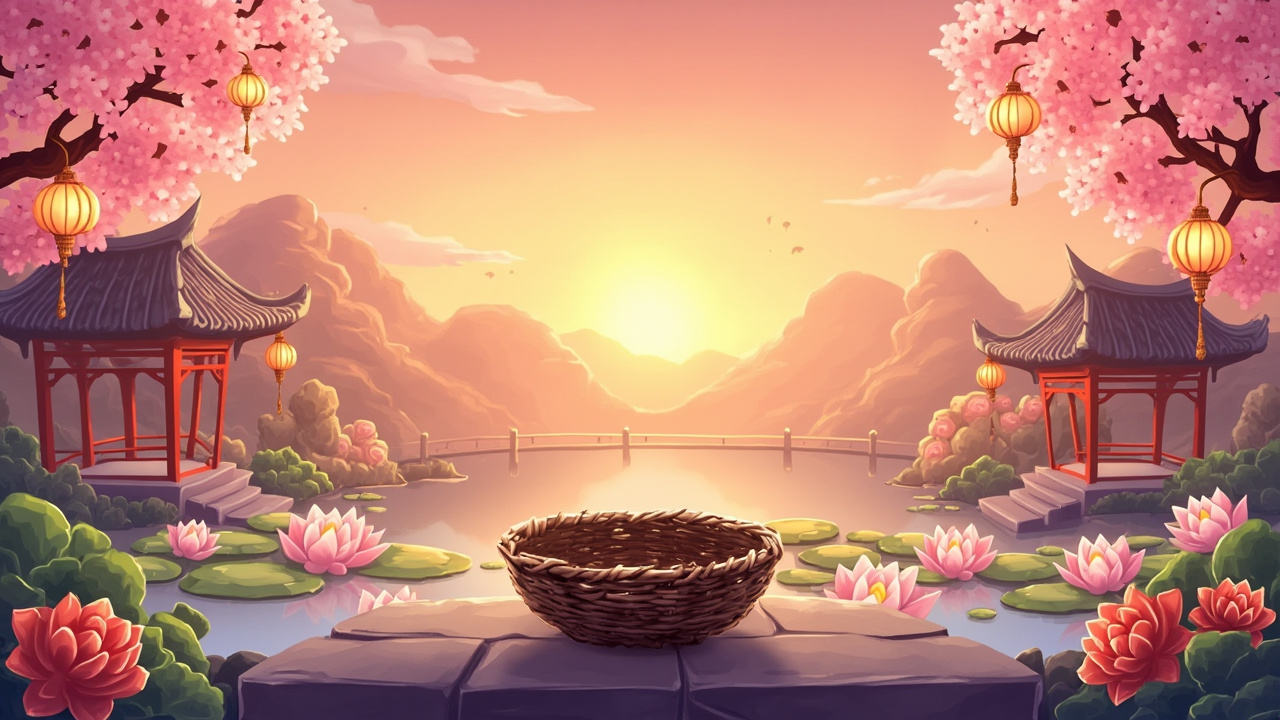
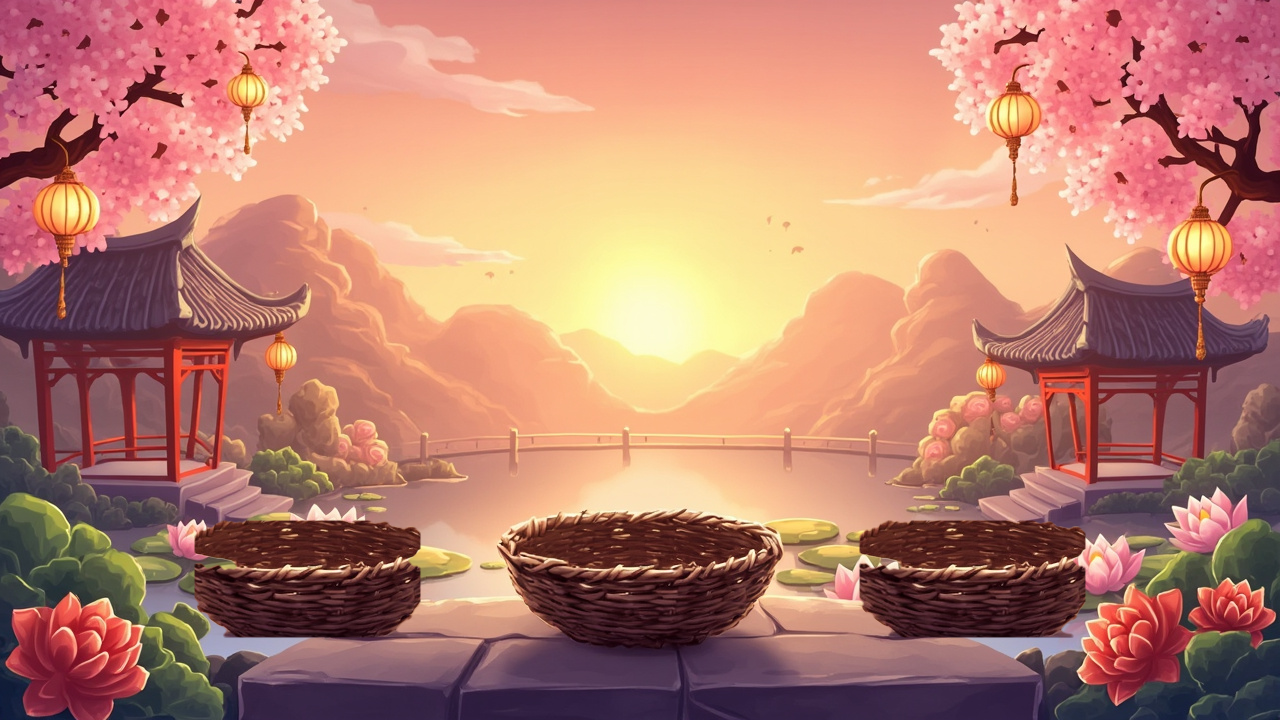
feat(pets): 三窝系统+新背景+蛋孵化

Changed region(s): [[0.6562, 0.7028, 0.875, 0.8861], [0.125, 0.7028, 0.3438, 0.8861]]

diff --git a/games/sword-master.html b/games/sword-master.html
@@ -433,9 +433,21 @@ body.shape-square .sm-home-content{max-width:100%;}
 <!-- ===== PETS PAGE ===== -->
 <div id="sm-page-pets" class="sm-page" style="background:url('assets/paradise-bg.png') center/cover no-repeat;position:relative;">
   <a class="sm-back-btn" onclick="smShowPage('park')"><img src="assets/back-arrow.png" alt="返回"></a>
-  <div id="pet-bubbles" style="position:absolute;top:0;left:0;width:100%;height:60%;pointer-events:none;"></div>
-  <div id="pet-area" style="position:absolute;bottom:0;left:0;width:100%;height:40%;display:flex;align-items:center;justify-content:center;">
-    <div id="pet-sprite" style="font-size:80px;filter:drop-shadow(0 4px 8px rgba(0,0,0,0.4));">🥚</div>
+  <div id="pet-bubbles" style="position:absolute;top:0;left:0;width:100%;height:55%;pointer-events:none;"></div>
+  <!-- 三窝区域 -->
+  <div id="pet-nests" style="position:absolute;bottom:0;left:0;width:100%;height:45%;display:flex;align-items:flex-end;justify-content:space-around;padding:0 5% 8%;pointer-events:none;">
+    <!-- 窝1 -->
+    <div class="pet-nest" data-nest="0" style="position:relative;width:25%;max-width:120px;aspect-ratio:1;display:flex;align-items:center;justify-content:center;pointer-events:auto;cursor:pointer;" onclick="smPetNestClick(0)">
+      <div class="pet-nest-content" id="pet-nest-0" style="font-size:48px;filter:drop-shadow(0 4px 8px rgba(0,0,0,0.3));">➕</div>
+    </div>
+    <!-- 窝2 -->
+    <div class="pet-nest" data-nest="1" style="position:relative;width:25%;max-width:120px;aspect-ratio:1;display:flex;align-items:center;justify-content:center;pointer-events:auto;cursor:pointer;" onclick="smPetNestClick(1)">
+      <div class="pet-nest-content" id="pet-nest-1" style="font-size:48px;filter:drop-shadow(0 4px 8px rgba(0,0,0,0.3));">➕</div>
+    </div>
+    <!-- 窝3 -->
+    <div class="pet-nest" data-nest="2" style="position:relative;width:25%;max-width:120px;aspect-ratio:1;display:flex;align-items:center;justify-content:center;pointer-events:auto;cursor:pointer;" onclick="smPetNestClick(2)">
+      <div class="pet-nest-content" id="pet-nest-2" style="font-size:48px;filter:drop-shadow(0 4px 8px rgba(0,0,0,0.3));">➕</div>
+    </div>
   </div>
 </div>
 <style>
@@ -597,6 +609,7 @@ function smRenderPetBagMain(){
   
   // Egg category: show actual eggs from save
   if(smPetBagActive==='egg'){
+    if(smPetNestPending>=0){var hint=document.createElement('div');hint.style.cssText='text-align:center;color:#d4af37;font-size:14px;padding:8px 0 4px;';hint.textContent='选择一枚蛋放入窝中';box.appendChild(hint);}
     var eggs = (smSave.petEggs||[]);
     if(eggs.length===0){
       var empty=document.createElement('div');
@@ -614,13 +627,19 @@ function smRenderPetBagMain(){
           var slot=document.createElement('div');
           slot.className='pet-shelf-slot';
           if(eggIdx<eggs.length){
-            (function(egg){
+            (function(egg,egIdx){
               slot.style.cursor='pointer';
               slot.innerHTML='<img src="'+egg.img+'" style="width:48px;height:48px;object-fit:contain;"><span class="slot-name">'+egg.name+'</span>';
               slot.addEventListener('click',function(){
-                alert('🥚 '+egg.name+'\n获得日期：'+(egg.got||'未知'));
+                if(smPetNestPending>=0){
+                  smPetPlaceEgg(smPetNestPending,egIdx);
+                  smPetNestPending=-1;
+                  smShowPage('pets');
+                }else{
+                  alert('🥚 '+egg.name+'\n获得日期：'+(egg.got||'未知'));
+                }
               });
-            })(eggs[eggIdx]);
+            })(eggs[eggIdx],eggIdx);
             eggIdx++;
           }else{
             slot.innerHTML='—<span class="slot-name">空</span>';
@@ -2810,7 +2829,7 @@ function smEquipArmor(key){
   smSave.equippedArmor=key;smSaveSave();smRenderShop();smUpdateHome();
 }
 function smGetKey(){const id=localStorage.getItem('thawpawActiveId')||'default';return 'sword_master_save_'+id;}
-function smLoadSave(){try{const d=JSON.parse(localStorage.getItem(smGetKey()));if(!d)d={};return{coins:d.coins||0,seals:d.seals||0,highestLevel:d.highestLevel||1,ownedArmors:d.ownedArmors||{},equippedArmor:d.equippedArmor||null,speedLevel:d.speedLevel||0,atkLevel:d.atkLevel||0,hpLevel:d.hpLevel||0};}catch(e){return{coins:0,seals:0,highestLevel:1,ownedArmors:{},equippedArmor:null,speedLevel:0,atkLevel:0,hpLevel:0};}}
+function smLoadSave(){try{const d=JSON.parse(localStorage.getItem(smGetKey()));if(!d)d={};return{coins:d.coins||0,seals:d.seals||0,highestLevel:d.highestLevel||1,ownedArmors:d.ownedArmors||{},equippedArmor:d.equippedArmor||null,speedLevel:d.speedLevel||0,atkLevel:d.atkLevel||0,hpLevel:d.hpLevel||0,petNests:d.petNests||[null,null,null],petBag:d.petBag||{food:[],toy:[],care:[],egg:[]}};}catch(e){return{coins:0,seals:0,highestLevel:1,ownedArmors:{},equippedArmor:null,speedLevel:0,atkLevel:0,hpLevel:0,petNests:[null,null,null],petBag:{food:[],toy:[],care:[],egg:[]}};}}
 function smSaveSave(){localStorage.setItem(smGetKey(),JSON.stringify(smSave));}
 
 // ===== 速度强化 =====
@@ -2986,6 +3005,98 @@ function smUpgradeHp(){
   smUpdateHome();
 }
 let smSave=smLoadSave();
+// ===== 宠物窝系统 =====
+var smPetNestPending=-1; // 正在等待选蛋的窝索引
+var PET_HATCH_TIME=3*24*60*60*1000; // 3天孵化（毫秒）
+function smRenderPetNests(){
+  var nests=smSave.petNests||[null,null,null];
+  for(var i=0;i<3;i++){
+    var el=document.getElementById('pet-nest-'+i);
+    if(!el)continue;
+    var n=nests[i];
+    if(!n){
+      // 空窝：显示加号
+      el.textContent='\u2795';
+      el.style.fontSize='40px';
+      el.style.opacity='0.6';
+    }else if(n.hatched){
+      // 已孵化：显示宠物图标
+      el.innerHTML='<img src="'+(n.petImg||'')+'" style="width:60px;height:60px;object-fit:contain;">';
+      el.style.fontSize='';
+      el.style.opacity='1';
+    }else{
+      // 蛋在孵化中：显示蛋图标+进度
+      var now=Date.now();
+      var elapsed=now-n.placedAt;
+      var pct=Math.min(100,Math.round(elapsed/PET_HATCH_TIME*100));
+      var egg=smSave.petEggs&&smSave.petEggs[n.eggIdx];
+      var eggIcon=egg?'<img src="'+egg.img+'" style="width:52px;height:52px;object-fit:contain;">':'\u{1F95A}';
+      el.innerHTML=eggIcon;
+      el.style.fontSize='';
+      el.style.opacity='1';
+      // 在蛋下面加进度条
+      var bar=document.createElement('div');
+      bar.style.cssText='position:absolute;bottom:-18px;left:50%;transform:translateX(-50%);width:60px;height:5px;background:rgba(0,0,0,0.4);border-radius:3px;overflow:hidden;';
+      var fill=document.createElement('div');
+      fill.style.cssText='width:'+pct+'%;height:100%;background:linear-gradient(90deg,#4caf50,#8bc34a);border-radius:3px;transition:width 0.3s;';
+      bar.appendChild(fill);
+      // 先清掉旧的 bar
+      var parent=el.parentElement;
+      var oldBar=parent.querySelector('.nest-progress');
+      if(oldBar)oldBar.remove();
+      bar.className='nest-progress';
+      parent.appendChild(bar);
+    }
+  }
+}
+function smPetNestClick(idx){
+  var n=smSave.petNests[idx];
+  if(!n){
+    // 空窝：打开背包蛋类页面
+    smPetNestPending=idx;
+    smPetBagActive='egg';
+    smShowPage('pet-bag');
+    smRenderPetBag&&smRenderPetBag();
+  }else if(!n.hatched){
+    // 孵化中：显示进度
+    var now=Date.now();var elapsed=now-n.placedAt;var remain=PET_HATCH_TIME-elapsed;
+    if(remain<=0){
+      // 孵化完成！
+      smPetHatch(idx);
+    }else{
+      var days=Math.floor(remain/86400000);var hours=Math.floor(remain%86400000/3600000);
+      alert('\u{1F95A} 孵化中...\n剩余时间：'+days+'天'+hours+'小时');
+    }
+  }
+}
+function smPetPlaceEgg(nestIdx,eggIdx){
+  var eggs=smSave.petEggs||[];
+  if(eggIdx<0||eggIdx>=eggs.length)return;
+  // 从背包删除蛋，放入窝
+  var egg=eggs.splice(eggIdx,1)[0];
+  smSave.petEggs=eggs;
+  smSave.petNests[nestIdx]={egg:egg,eggIdx:-1,placedAt:Date.now(),hatched:false};
+  smSaveSave();
+  smRenderPetNests();
+}
+function smPetHatch(idx){
+  var n=smSave.petNests[idx];
+  if(!n||n.hatched)return;
+  n.hatched=true;
+  n.hatchedAt=Date.now();
+  // 蛋图标转为宠物图标（暂时用同一个图）
+  n.petImg=n.egg?n.egg.img:'';
+  n.petName=n.egg?n.egg.name+'宝宝':'神秘宠物';
+  smSaveSave();
+  smRenderPetNests();
+  alert('\u{1F431} 恭喜！'+n.petName+' 孵化了！');
+}
+function smGetHatchingProgress(nestIdx){
+  var n=smSave.petNests[nestIdx];
+  if(!n||n.hatched)return null;
+  var elapsed=Date.now()-n.placedAt;
+  return Math.min(100,Math.round(elapsed/PET_HATCH_TIME*100));
+}
 function smGetNick(){try{const id=localStorage.getItem('thawpawActiveId');if(id){const ps=JSON.parse(localStorage.getItem('thawpawPlayers')||'{}');if(ps[id]&&ps[id].nickname)return ps[id].nickname;}}catch(e){}return'少年剑客';}
 function smShowPage(name){
   document.querySelectorAll('.sm-page').forEach(p=>{p.classList.remove('active');p.style.display='none';});
@@ -2995,6 +3106,7 @@ function smShowPage(name){
   if(name==='enhance'){document.getElementById('sm-enhance-seals').textContent=smSave.seals;smRenderSpeedEnhance();smRenderAtkEnhance();smRenderHpEnhance();}
   if(name==='shop')smRenderShop();
   if(name==='pets'&&typeof smRenderPetBubbles==='function')smRenderPetBubbles();
+  if(name==='pets'&&typeof smRenderPetNests==='function')smRenderPetNests();
   if(name==='pet-shop'){smRenderPetShopCats();smRenderPetShopMain();document.getElementById('sm-pet-shop-coins').textContent=smSave.coins;}
   if(name==='pet-bag'){smRenderPetBagCats();smRenderPetBagMain();}
   if(name==='forest'){if(typeof fitForestCanvas==='function')fitForestCanvas();var _ft=document.getElementById('forest-touch');if(_ft)_ft.style.display='block';}
